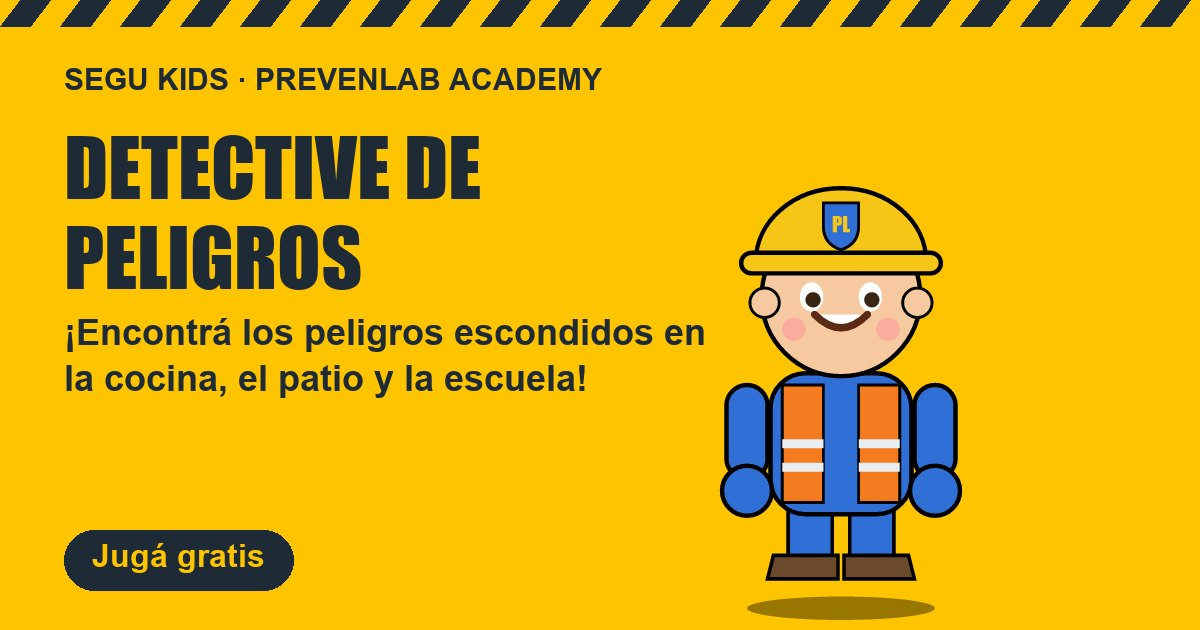
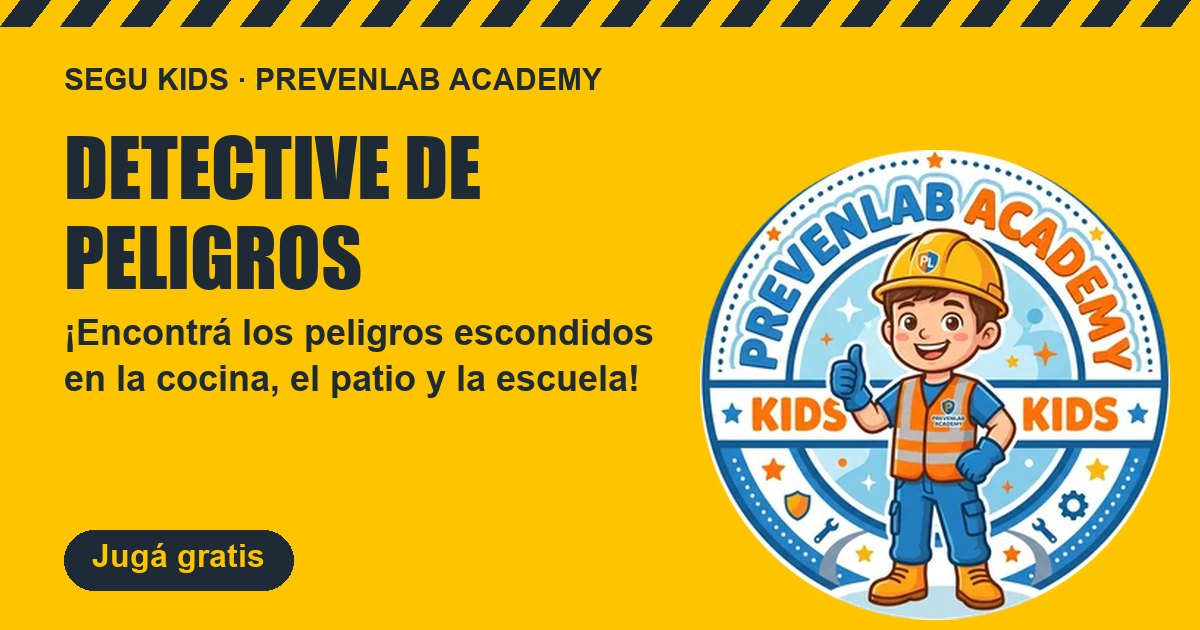
Segu Kids: pictogramas de riesgo en envases quimicos, Segu oficial y numero de version
- Pictogramas estilo SGA en lavandina, destapacanerias, cloro (corrosivo), detergente (irritante) y alcohol (inflamable)
- Segu oficial de PrevenLab Academy Kids (assets/segu-kids.webp) en el juego, la portada y la imagen para compartir
- Version visible: Detective de Peligros v1.0 y Segu y la Tension v1.1

Changed region(s): [[0.0308, 0.2111, 0.9867, 0.9952]]

diff --git a/segu-kids/index.html b/segu-kids/index.html
@@ -8,7 +8,7 @@
 <meta property="og:url" content="https://hiperfrenetico.github.io/prevenlab-arcade/segu-kids/"><meta property="og:image" content="https://hiperfrenetico.github.io/prevenlab-arcade/segu-kids/og.jpg">
 <meta property="og:image:width" content="1200"><meta property="og:image:height" content="630">
 <meta name="twitter:card" content="summary_large_image">
-<link rel="icon" href="../assets/segu.svg" type="image/svg+xml">
+<link rel="icon" href="../assets/segu-kids.webp" type="image/webp">
 <link rel="canonical" href="https://hiperfrenetico.github.io/prevenlab-arcade/segu-kids/">
 <style>
 @font-face{font-family:'Nunito';src:url(../fonts/nunito-latin.woff2) format('woff2');font-weight:600 900;font-style:normal;font-display:swap}
@@ -16,7 +16,7 @@
 body{font-family:'Nunito',system-ui,sans-serif;background:#eef0f2;color:#1f2a37}
 .wrap{max-width:1000px;margin:0 auto;padding:14px 16px}
 header{display:flex;align-items:center;justify-content:space-between;flex-wrap:wrap;gap:8px;margin-bottom:10px}
-.brand{font-weight:900;font-size:26px;display:flex;align-items:center;gap:8px}.mascota{height:64px;width:auto;flex:none}.adulto{font-size:14px;font-weight:700;color:#51606f;margin:0 0 8px}
+.brand{font-weight:900;font-size:26px;display:flex;align-items:center;gap:8px}.mascota{height:72px;width:72px;flex:none}.adulto{font-size:14px;font-weight:700;color:#51606f;margin:0 0 8px}
 .kids{background:#ffc400;padding:2px 10px;border-radius:8px;margin-left:6px;letter-spacing:2px}
 .tabs button{font-family:inherit;font-weight:800;font-size:15px;border:2px solid #1f2a37;background:#fff;border-radius:10px;padding:7px 14px;cursor:pointer;margin:2px}
 .tabs button.on{background:#1f2a37;color:#fff}
@@ -53,7 +53,7 @@ svg.sc{width:100%;height:auto;display:block;border-radius:14px;border:3px solid 
 
 <div class="wrap">
 <header>
-  <div class="brand"><img class="mascota" src="../assets/segu.svg" alt="Segu, el detective de peligros"><span>Segu<span class="kids">KIDS</span> · Detective de Peligros</span></div>
+  <div class="brand"><img class="mascota" src="../assets/segu-kids.webp" alt="Segu, de PrevenLab Academy Kids"><span>Segu<span class="kids">KIDS</span> · Detective de Peligros</span></div>
   <div class="tabs"><button id="b0" onclick="go(0)">Cocina</button><button id="b1" onclick="go(1)">Living</button><button id="b2" onclick="go(2)">Escuela</button><button id="b3" onclick="go(3)">Baño</button><button id="b4" onclick="go(4)">Patio</button></div>
 </header>
 <p class="adulto">Jugá con un adulto cerca. No pide registro ni datos.</p>
@@ -98,11 +98,11 @@ svg.sc{width:100%;height:auto;display:block;border-radius:14px;border:3px solid 
  <!-- bacha y canilla -->
  <rect x="128" y="294" width="106" height="8" rx="2" fill="url(#gSteel)"/><path d="M183 294V250q0 -12 14 -12h14v12" stroke="url(#gSteel)" stroke-width="7" fill="none"/><rect x="176" y="286" width="14" height="8" fill="#8e979f"/>
  <!-- esponja, detergente (seguro) -->
- <g class="sf" data-m="Detergente de platos junto a la bacha, arriba de la mesada. Está bien."><rect x="214" y="266" width="16" height="30" rx="4" fill="#5fb85a"/><rect x="218" y="258" width="8" height="9" fill="#eee"/></g>
+ <g class="sf" data-m="Detergente de platos junto a la bacha, arriba de la mesada. Está bien."><rect x="214" y="266" width="16" height="30" rx="4" fill="#5fb85a"/><rect x="218" y="258" width="8" height="9" fill="#eee"/><g class="ghs" style="pointer-events:none"><polygon points="222,277 229,284 222,291 215,284" fill="#fff" stroke="#d62828" stroke-width="1.12" stroke-linejoin="round"/><rect x="221.51" y="281.025" width="0.9800000000000001" height="3.8500000000000005" rx="0.42"/><circle cx="222" cy="286.17" r="0.60"/></g></g>
  <!-- PELIGRO: bajo mesada entreabierto con lavandina -->
  <g class="hz" data-n="Productos de limpieza en el bajo mesada sin traba" data-m="La puerta del bajo mesada quedó entreabierta y adentro hay lavandina. Los productos de limpieza son tóxicos: van en alto o con traba de seguridad.">
   <rect x="120" y="316" width="122" height="150" fill="#2a1f16"/>
-  <rect x="150" y="402" width="26" height="56" rx="5" fill="#f2f2f2"/><rect x="157" y="392" width="12" height="12" fill="#1d70b8"/><rect x="151" y="420" width="24" height="16" fill="#1d70b8"/>
+  <rect x="150" y="402" width="26" height="56" rx="5" fill="#f2f2f2"/><rect x="157" y="392" width="12" height="12" fill="#1d70b8"/><rect x="151" y="420" width="24" height="16" fill="#1d70b8"/><g class="ghs" style="pointer-events:none"><polygon points="163,430 173,440 163,450 153,440" fill="#fff" stroke="#d62828" stroke-width="1.60" stroke-linejoin="round"/><path d="M160.25 436.25 v2.75 M163.75 436.25 v2.75" stroke="#000" stroke-width="1.40" stroke-linecap="round"/><circle cx="160.25" cy="440.5" r="0.85"/><circle cx="163.75" cy="440.5" r="0.85"/><rect x="158.5" y="442.25" width="9.0" height="1.6" rx="0.5"/></g>
   <path d="M120 316 L158 322 L158 462 L120 466Z" fill="url(#gWood)" stroke="#6e5037" stroke-width="2"/>
   <rect x="180" y="316" width="62" height="150" fill="url(#gWood)" stroke="#6e5037" stroke-width="2"/>
  </g>
@@ -311,7 +311,7 @@ svg.sc{width:100%;height:auto;display:block;border-radius:14px;border:3px solid 
  <g class="sf" data-m="Papel higiénico en su soporte: está bien."><rect x="490" y="330" width="6" height="20" fill="#9aa3ab"/><circle cx="505" cy="350" r="14" fill="#fff" stroke="#ccc"/></g>
  <!-- PELIGRO: destapacañerías junto al inodoro -->
  <g class="hz" data-n="Destapacañerías en el piso" data-m="El destapacañerías es muy corrosivo: quema la piel y es veneno. Quedó en el piso al lado del inodoro. Va guardado bajo llave.">
-  <rect x="478" y="420" width="26" height="46" rx="4" fill="#3a3a3a"/><rect x="483" y="410" width="16" height="12" fill="#e63946"/><path d="M482 440h18" stroke="#ffd166" stroke-width="5"/>
+  <rect x="478" y="420" width="26" height="46" rx="4" fill="#3a3a3a"/><rect x="483" y="410" width="16" height="12" fill="#e63946"/><path d="M482 440h18" stroke="#ffd166" stroke-width="5"/><g class="ghs" style="pointer-events:none"><polygon points="491,442 501,452 491,462 481,452" fill="#fff" stroke="#d62828" stroke-width="1.60" stroke-linejoin="round"/><path d="M488.25 448.25 v2.75 M491.75 448.25 v2.75" stroke="#000" stroke-width="1.40" stroke-linecap="round"/><circle cx="488.25" cy="452.5" r="0.85"/><circle cx="491.75" cy="452.5" r="0.85"/><rect x="486.5" y="454.25" width="9.0" height="1.6" rx="0.5"/></g>
  </g>
  <!-- bañera -->
  <rect x="560" y="330" width="420" height="140" rx="10" fill="url(#gWhite)" stroke="#aab" stroke-width="2"/><rect x="575" y="330" width="390" height="22" fill="#a9d6ee"/><path d="M590 340 q30 -6 60 0 t60 0 t60 0" stroke="#fff" stroke-width="3" fill="none" opacity=".8"/>
@@ -359,7 +359,7 @@ svg.sc{width:100%;height:auto;display:block;border-radius:14px;border:3px solid 
  </g>
  <!-- PELIGRO: bidón de cloro abierto -->
  <g class="hz" data-n="Bidón de cloro abierto al borde de la pileta" data-m="El bidón de cloro para la pileta quedó abierto en el borde. El cloro es tóxico y quema. Va cerrado y guardado lejos de los chicos.">
-  <rect x="800" y="458" width="30" height="40" rx="4" fill="#f4f4f4" stroke="#999"/><rect x="806" y="452" width="10" height="7" fill="#999"/><rect x="802" y="470" width="26" height="12" fill="#2a9d8f"/><ellipse cx="830" cy="501" rx="10" ry="3" fill="#ccc"/>
+  <rect x="800" y="458" width="30" height="40" rx="4" fill="#f4f4f4" stroke="#999"/><rect x="806" y="452" width="10" height="7" fill="#999"/><rect x="802" y="470" width="26" height="12" fill="#2a9d8f"/><g class="ghs" style="pointer-events:none"><polygon points="815,480 824,489 815,498 806,489" fill="#fff" stroke="#d62828" stroke-width="1.44" stroke-linejoin="round"/><path d="M812.525 485.625 v2.475 M815.675 485.625 v2.475" stroke="#000" stroke-width="1.26" stroke-linecap="round"/><circle cx="812.525" cy="489.45" r="0.77"/><circle cx="815.675" cy="489.45" r="0.77"/><rect x="810.95" y="491.025" width="8.1" height="1.44" rx="0.45"/></g><ellipse cx="830" cy="501" rx="10" ry="3" fill="#ccc"/>
  </g>
  <!-- PELIGRO: alargue cerca del agua -->
  <g class="hz" data-n="Alargue en el pasto mojado junto a la pileta" data-m="Un alargue enchufado está tirado en el pasto mojado, cerca de la pileta. Con agua, la electricidad es muy peligrosa.">
@@ -374,7 +374,7 @@ svg.sc{width:100%;height:auto;display:block;border-radius:14px;border:3px solid 
  <g class="sf" data-m="Bolsa de carbón cerrada: está bien."><path d="M840 340 L846 280 H884 L890 340Z" fill="#3a3a3a"/><rect x="852" y="300" width="30" height="16" fill="#e9c46a"/></g>
  <!-- PELIGRO: alcohol junto a la parrilla -->
  <g class="hz" data-n="Botella de alcohol al lado de las brasas" data-m="La botella de alcohol quedó al lado de las brasas encendidas. Los vapores se prenden fuego y puede explotar. Nunca usar alcohol para avivar el fuego.">
-  <rect x="795" y="262" width="13" height="28" rx="3" fill="#d6ecf7" stroke="#8ab"/><rect x="798" y="254" width="7" height="9" fill="#d62828"/><rect x="796" y="272" width="11" height="8" fill="#1d70b8"/>
+  <rect x="795" y="262" width="13" height="28" rx="3" fill="#d6ecf7" stroke="#8ab"/><rect x="798" y="254" width="7" height="9" fill="#d62828"/><rect x="796" y="272" width="11" height="8" fill="#1d70b8"/><g class="ghs" style="pointer-events:none"><polygon points="801.5,277 807.5,283 801.5,289 795.5,283" fill="#fff" stroke="#d62828" stroke-width="0.96" stroke-linejoin="round"/><path d="M801.5 280.15 C803.75 282.4 803.6 284.95 801.5 285.25 C799.4 284.95 799.7 282.7 801.05 281.95 C801.2 283 801.8 282.1 801.5 280.15Z"/></g>
  </g>
  <!-- mesa y sillas -->
  <g class="sf" data-m="Mesa y sillas de jardín: están bien."><rect x="380" y="300" width="160" height="10" fill="#f4f4f4"/><path d="M395 310 L390 360 M525 310 L530 360" stroke="#ddd" stroke-width="6"/><path d="M460 300 V200" stroke="#888" stroke-width="4"/><path d="M380 210 Q460 160 540 210Z" fill="#e76f51"/></g>
@@ -388,7 +388,7 @@ svg.sc{width:100%;height:auto;display:block;border-radius:14px;border:3px solid 
 
 <div class="panel" id="fb"></div>
 <div class="list" id="list"></div>
-<p class="foot">PrevenLab Academy Kids · Segu</p>
+<p class="foot">PrevenLab Academy Kids · Segu · Detective de Peligros v1.0 · 13/10/2026</p>
 </div>
 <script>
 let cur=0,found,err,tot;const N=5;

diff --git a/index.html b/index.html
@@ -34,6 +34,6 @@ a.card em{display:inline-block;margin-top:10px;font-style:normal;font-weight:900
 <body><div class="franja"></div><main>
 <div class="hero"><img src="assets/segu.svg" alt="Segu, el personaje de PrevenLab Academy"><div><h1>Juegos <span>SEGU</span></h1><p class="lema">Aprendé jugando a prevenir.</p></div></div>
 <a class="card ad" href="segu-tension/"><b>⚡ Adultos</b><span>Segu y la Tensión: elegí el EPP correcto para trabajar con riesgo eléctrico, de 220 V a 132 kV.</span><em>Jugar</em></a>
-<a class="card ki" href="segu-kids/"><b>🔍 Kids</b><span>Detective de Peligros: encontrá los peligros escondidos en la cocina, el patio y la escuela. Para jugar con un adulto.</span><em>Jugar</em></a>
+<a class="card ki" href="segu-kids/"><img src="assets/segu-kids.webp" alt="Segu Kids" style="float:right;height:84px;width:84px;margin:-4px 0 0 8px"><b>🔍 Kids</b><span>Detective de Peligros: encontrá los peligros escondidos en la cocina, el patio y la escuela. Para jugar con un adulto.</span><em>Jugar</em></a>
 <p class="pie">Juegos gratuitos de PrevenLab Academy · <a href="https://prevenlab-hys.blogspot.com/">Blog PrevenLab</a></p>
 </main></body></html>

diff --git a/segu-tension/index.html b/segu-tension/index.html
@@ -79,7 +79,7 @@ h1,h2,h3{font-family:Oswald,Impact,sans-serif;text-transform:uppercase;letter-sp
       De baja a alta tensión: leé los <b>datos</b>, tomá la <b>decisión</b> correcta y equipá a Segu con el <b>EPP y los elementos adecuados</b> antes de que se acabe el tiempo.<br><br>Cada error te cuesta una vida. Tenés 3 ⚡
     </div>
     <button class="btn" id="bPlay">Jugar</button>
-    <p class="legal">PrevenLab Academy · Contenido educativo. No reemplaza la capacitación ni la habilitación para tareas eléctricas.</p>
+    <p class="legal">PrevenLab Academy · Segu y la Tensión v1.1 · 13/10/2026 · Contenido educativo. No reemplaza la capacitación ni la habilitación para tareas eléctricas.</p>
   </section>
 
   <section class="screen" id="sData">

diff --git a/tools/build_kids.py b/tools/build_kids.py
@@ -12,6 +12,8 @@ import glob, os, re, sys
 ROOT = os.path.dirname(os.path.dirname(os.path.abspath(__file__)))
 PUB = r"D:\OneDrive\HyS\PrevenLab\Publicaciones"
 BASE = "https://hiperfrenetico.github.io/prevenlab-arcade/segu-kids/"
+VERSION = "v1.0"
+FECHA = "13/10/2026"
 
 if len(sys.argv) > 1:
     src = sys.argv[1]
@@ -38,23 +40,55 @@ head_new = f"""<title>Segu Kids · Detective de Peligros · PrevenLab Academy</t
 <meta property="og:url" content="{BASE}"><meta property="og:image" content="{BASE}og.jpg">
 <meta property="og:image:width" content="1200"><meta property="og:image:height" content="630">
 <meta name="twitter:card" content="summary_large_image">
-<link rel="icon" href="../assets/segu.svg" type="image/svg+xml">
+<link rel="icon" href="../assets/segu-kids.webp" type="image/webp">
 <link rel="canonical" href="{BASE}">"""
 html = html.replace(head_old.group(0), head_new, 1)
 sub("<style>", "<style>\n@font-face{font-family:'Nunito';src:url(../fonts/nunito-latin.woff2) format('woff2');font-weight:600 900;font-style:normal;font-display:swap}", "font-face")
 
 # 2) Segu en el encabezado
 sub('<div class="brand">Segu<span class="kids">KIDS</span> · Detective de Peligros</div>',
-    '<div class="brand"><img class="mascota" src="../assets/segu.svg" alt="Segu, el detective de peligros">'
+    '<div class="brand"><img class="mascota" src="../assets/segu-kids.webp" alt="Segu, de PrevenLab Academy Kids">'
     '<span>Segu<span class="kids">KIDS</span> · Detective de Peligros</span></div>', "brand")
 sub(".brand{font-weight:900;font-size:26px}",
     ".brand{font-weight:900;font-size:26px;display:flex;align-items:center;gap:8px}"
-    ".mascota{height:64px;width:auto;flex:none}"
+    ".mascota{height:72px;width:72px;flex:none}"
     ".adulto{font-size:14px;font-weight:700;color:#51606f;margin:0 0 8px}", "brand css")
 
 # 3) aviso para jugar con un adulto + noscript
 sub("</header>", '</header>\n<p class="adulto">Jugá con un adulto cerca. No pide registro ni datos.</p>\n'
     '<noscript><p class="adulto">Este juego necesita JavaScript activado.</p></noscript>', "aviso")
+
+# 4) pictogramas de riesgo (estilo SGA/GHS) en los envases de productos quimicos
+def ghs(cx, cy, s, kind):
+    w = s * 0.16
+    g = (f'<g class="ghs" style="pointer-events:none"><polygon points="{cx},{cy-s} {cx+s},{cy} {cx},{cy+s} {cx-s},{cy}" '
+         f'fill="#fff" stroke="#d62828" stroke-width="{w:.2f}" stroke-linejoin="round"/>')
+    k = s * 0.5
+    if kind == "corrosivo":   # gotas cayendo sobre una barra
+        g += (f'<path d="M{cx-k*.55} {cy-k*.75} v{k*.55} M{cx+k*.15} {cy-k*.75} v{k*.55}" stroke="#000" stroke-width="{k*.28:.2f}" stroke-linecap="round"/>'
+              f'<circle cx="{cx-k*.55}" cy="{cy+k*.1}" r="{k*.17:.2f}"/><circle cx="{cx+k*.15}" cy="{cy+k*.1}" r="{k*.17:.2f}"/>'
+              f'<rect x="{cx-k*.9}" y="{cy+k*.45}" width="{k*1.8}" height="{k*.32}" rx="{k*.1}"/>')
+    elif kind == "llama":
+        g += (f'<path d="M{cx} {cy-k*.95} C{cx+k*.75} {cy-k*.2} {cx+k*.7} {cy+k*.65} {cx} {cy+k*.75} '
+              f'C{cx-k*.7} {cy+k*.65} {cx-k*.6} {cy-k*.1} {cx-k*.15} {cy-k*.35} C{cx-k*.1} {cy} {cx+k*.1} {cy-k*.3} {cx} {cy-k*.95}Z"/>')
+    else:                     # signo de exclamacion (irritante)
+        g += (f'<rect x="{cx-k*.14}" y="{cy-k*.85}" width="{k*.28}" height="{k*1.1}" rx="{k*.12}"/>'
+              f'<circle cx="{cx}" cy="{cy+k*.62}" r="{k*.17:.2f}"/>')
+    return g + "</g>"
+
+envases = [  # (texto unico del envase en el original, x, y, tamano, tipo)
+    ('<rect x="151" y="420" width="24" height="16" fill="#1d70b8"/>', 163, 440, 10, "corrosivo"),            # lavandina
+    ('<path d="M482 440h18" stroke="#ffd166" stroke-width="5"/>', 491, 452, 10, "corrosivo"),                  # destapacanerias
+    ('<rect x="802" y="470" width="26" height="12" fill="#2a9d8f"/>', 815, 489, 9, "corrosivo"),               # cloro
+    ('<rect x="218" y="258" width="8" height="9" fill="#eee"/>', 222, 284, 7, "exclamacion"),                  # detergente
+    ('<rect x="796" y="272" width="11" height="8" fill="#1d70b8"/>', 801.5, 283, 6, "llama"),                  # alcohol
+]
+for txt, x, y, t, kind in envases:
+    sub(txt, txt + ghs(x, y, t, kind), "pictograma " + kind)
+
+# 5) numero de version al pie
+sub('<p class="foot">PrevenLab Academy Kids · Segu</p>',
+    f'<p class="foot">PrevenLab Academy Kids · Segu · Detective de Peligros {VERSION} · {FECHA}</p>', "version")
 
 out = os.path.join(ROOT, "segu-kids", "index.html")
 os.makedirs(os.path.dirname(out), exist_ok=True)

diff --git a/tools/make_og.py b/tools/make_og.py
@@ -24,14 +24,14 @@ def wrap(draw, text, font, maxw):
     lines.append(cur)
     return lines
 
-def card(path, bg, fg, accent, tag, title, sub, badge):
+def card(path, bg, fg, accent, tag, title, sub, badge, mascot=None):
     W, H = 1200, 630
     im = Image.new("RGB", (W, H), bg)
     d = ImageDraw.Draw(im)
     # franja de peligro arriba
     for x in range(-40, W + 40, 60):
         d.polygon([(x, 0), (x + 30, 0), (x + 10, 26), (x - 20, 26)], fill=accent)
-    s = segu_img(470)
+    s = mascot if mascot is not None else segu_img(470)
     im.paste(s, (W - s.width - 30, H - s.height - 10), s)
     f_tag = ImageFont.truetype(BOLD, 30)
     f_title = ImageFont.truetype(IMPACT, 80)
@@ -43,7 +43,7 @@ def card(path, bg, fg, accent, tag, title, sub, badge):
     for line in wrap(d, title.upper(), f_title, 640):
         d.text((x, y), line, font=f_title, fill=fg); y += 90
     y += 14
-    for line in wrap(d, sub, f_sub, 680):
+    for line in wrap(d, sub, f_sub, 620):
         d.text((x, y), line, font=f_sub, fill=fg); y += 46
     bw = d.textlength(badge, font=f_badge) + 56
     d.rounded_rectangle((x, H - 100, x + bw, H - 40), radius=30, fill=accent)
@@ -54,9 +54,11 @@ def card(path, bg, fg, accent, tag, title, sub, badge):
 card(os.path.join(ROOT, "segu-tension", "og.jpg"), "#101215", "#f3f1ec", "#F5A623",
      "SEGU Adultos · PrevenLab Academy", "¿Sabés qué EPP usar con tensión?",
      "De 220 V a 132 kV: elegí guantes, pértiga y taburete correctos.", "Jugá gratis")
+KIDS_SRC = os.path.join(ROOT, "assets", "segu-kids.webp")
+kids = Image.open(KIDS_SRC).convert("RGBA").resize((470, 470), Image.LANCZOS)
 card(os.path.join(ROOT, "segu-kids", "og.jpg"), "#FFC400", "#1f2a37", "#1f2a37",
      "SEGU Kids · PrevenLab Academy", "Detective de peligros",
-     "¡Encontrá los peligros escondidos en la cocina, el patio y la escuela!", "Jugá gratis")
+     "¡Encontrá los peligros escondidos en la cocina, el patio y la escuela!", "Jugá gratis", kids)
 card(os.path.join(ROOT, "og.jpg"), "#101215", "#f3f1ec", "#F5A623",
      "PrevenLab Academy", "SEGU: juegos de seguridad",
      "Adultos y Kids. Aprendé jugando a prevenir.", "Jugá gratis")
